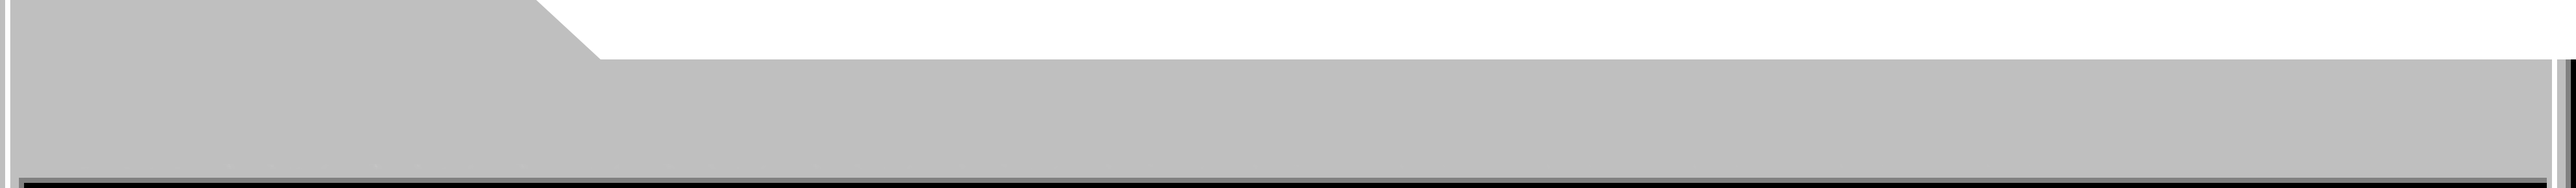
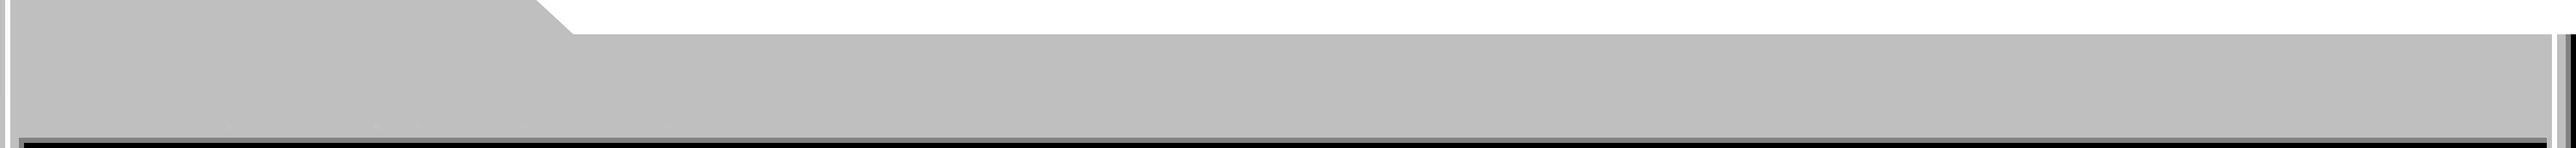
Smaller bar, bigger centred buttons

Changed region(s): [[0.2178, 0.1853, 1.0, 0.3398], [0.0, 0.9266, 0.9956, 0.9884]]

diff --git a/index.html b/index.html
@@ -214,9 +214,15 @@ body.frm-img .floor.show::before{left:0}
 /* tabbed middle bar: the tab rises over the bottom of the video and holds the buttons; the bar holds the seek slider */
 body.frm-img .floor.show.tabbed{margin-top:calc(var(--fov, 0px) * -1)}
 body.frm-img .floor.show.tabbed::before{width:calc(var(--ks) * var(--capl) * 1px)}
-.floor .transport{--tw:126px;--th:34px;z-index:2;left:calc((var(--ks) * var(--tabw, 1050) * 1px + var(--ks) * 19px - var(--tw)) / 2);top:calc((var(--fov, 23px) + var(--fbh, 46px) - var(--th)) / 2);bottom:auto;padding:0;background:none;box-shadow:none;opacity:1}
-.floor .seekwrap{position:absolute;z-index:2;left:calc(var(--ks) * var(--tabw, 1050) * 1px + 18px);right:calc(var(--ks) * 43px + 14px);top:calc(var(--fov, 50px) + (var(--fbh, 46px) - 28px) / 2);height:28px}
+body.frm-img .floor.show.tabbed{--th:calc(var(--fbh, 40px) - 4px);--bw:calc(var(--th) * 1.28)}      /* buttons and slider are as tall as the grey bar allows, with 2px to spare above and below */
+.floor .transport{--tw:calc(var(--bw, 46px) * 3 + 12px);z-index:2;left:calc((var(--ks) * var(--tabw, 1002) * 1px + var(--ks) * 19px - var(--tw)) / 2);top:calc(var(--fov, 13px) + (var(--fbh, 40px) - var(--th, 36px)) / 2);gap:6px;bottom:auto;padding:0;background:none;box-shadow:none;opacity:1}
+.floor .seekwrap{position:absolute;z-index:2;left:calc(var(--ks) * var(--tabw, 1002) * 1px + 18px);right:calc(var(--ks) * 43px + 14px);top:calc(var(--fov, 13px) + (var(--fbh, 40px) - var(--th, 36px)) / 2);height:var(--th, 36px)}
 .seekwrap[hidden]{display:none}
+.floor .transport button{width:var(--bw, 46px);height:var(--th, 36px)}
+.floor .transport button svg{width:calc(var(--th, 36px) * .56);height:calc(var(--th, 36px) * .56)}
+.floor .vseek{height:var(--th, 36px)}
+.floor .vseek::-webkit-slider-thumb{height:var(--th, 36px);margin-top:calc((16px - var(--th, 36px)) / 2)}
+.floor .vseek::-moz-range-thumb{height:var(--th, 36px)}
 .stagewrap .seekwrap{position:absolute;left:28px;right:28px;bottom:76px;height:28px;z-index:3}
 .vseek{display:block;width:100%;height:28px;margin:0;padding:0;background:transparent;-webkit-appearance:none;appearance:none;--p:0%}
 .vseek:focus{outline:none}
@@ -226,7 +232,7 @@ body.frm-img .floor.show.tabbed::before{width:calc(var(--ks) * var(--capl) * 1px
 .vseek::-moz-range-thumb{width:18px;height:28px;border:0;border-radius:0;background:#bfbfbf;box-shadow:inset -3px -3px 0 #000, inset -6px -6px 0 #818181, inset 3px 3px 0 #fff}
 .vseek:focus-visible::-webkit-slider-thumb{outline:2px dotted #000;outline-offset:-5px}
 .vseek:focus-visible::-moz-range-thumb{outline:2px dotted #000;outline-offset:-5px}
-@media (max-width:760px){.floor .transport{--tw:104px;--th:30px}.stagewrap .seekwrap{left:12px;right:12px;bottom:56px}}
+@media (max-width:760px){.floor .transport{gap:4px}.stagewrap .seekwrap{left:12px;right:12px;bottom:56px}}
 body.frm-img .floor.show::after{right:0;left:auto;background-position:right top}
 body.no-sill.frm-img .sill{display:none}
 body.flr-end{padding-bottom:0}
@@ -447,7 +453,7 @@ const SITE = {
   titleImage: 'images/frame-title.png',            // solid title bar at the very top of the page (your name and role sit on it). Missing file = a plain blue bar
   headerImage: 'images/frame-top.png',             // the see-through menu bar over the video (its grey menu row). Missing file = a plain grey bar
   middleImage: 'images/frame-middle.png',          // bar under the video. Missing file = frame-bottom.png is used there instead
-  middleFrame: { fillAt: 2000, capLeft: 1100, tabWidth: 1050, overlapRows: 104, barRows: 206 },   // fillAt = a flat spot to stretch. capLeft = how much of the left (the tab) is drawn as it is. tabWidth = where the tab ends (the slider starts after it). overlapRows = how many rows at the top are the tab that rises over the video. barRows = height of the grey bar. All in file pixels.                   // a flat spot of frame-middle.png (in file pixels) that gets stretched across the middle
+  middleFrame: { fillAt: 2000, capLeft: 1050, tabWidth: 1002, overlapRows: 60, barRows: 180 },   // fillAt = a flat spot to stretch. capLeft = how much of the left (the tab) is drawn as it is. tabWidth = where the tab ends (the slider starts after it). overlapRows = how many rows at the top are the tab that rises over the video. barRows = height of the grey bar. All in file pixels.                   // a flat spot of frame-middle.png (in file pixels) that gets stretched across the middle
   bottomImage: 'images/frame-bottom.png',          // bar that closes the frame at the very end of the page
   bottomFrame: { fillAt: 2000 },                   // a flat spot of frame-bottom.png (in file pixels) that gets stretched across the middle
   sideImage: 'images/frame-side.png',              // left and right edges of the window, repeats down the page. Missing file = no edges
